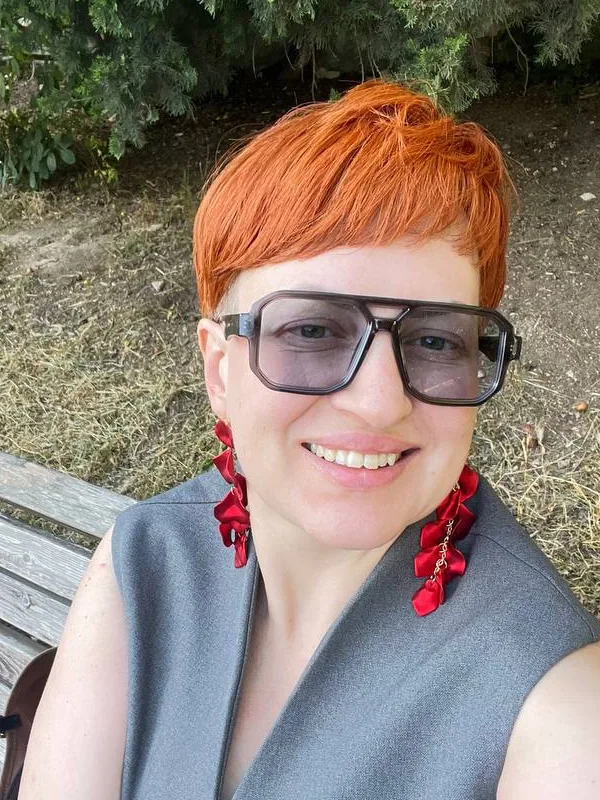
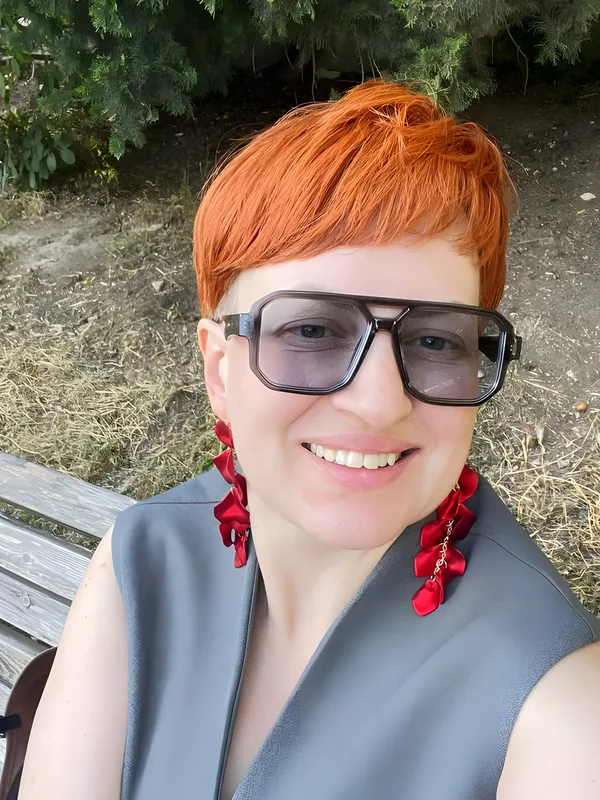
perf: апскейл фотографий Real-ESRGAN x4, версии 2400 для ретины
Мастера получены на кассовом ПК (Vulkan на Intel UHD 610), кадрирование
сохранено пиксель-в-пиксель, добавлен размер 2400 в srcset, sizes уточнены
по измеренной ширине блоков.

Claude-Session: https://claude.ai/code/session_01CwtXJwgq82ZA6p353MHXb9

diff --git a/zapis-marketing-doveriya/index.html b/zapis-marketing-doveriya/index.html
@@ -31,4 +31,4 @@
 <meta content="Мощный практический онлайн-эфир «Маркетинг Доверия» доступен в записи. Доступ после оплаты. Валентина Сухарева." name="twitter:description"/>
 <meta content="https://xn----8sbjhcmhkkgzbpg6a9j.xn--p1ai/assets/img/og-zapis.jpg" name="twitter:image"/>
 <meta content="Маркетинг Доверия. Вебинар в записи. Валентина Сухарева." name="twitter:image:alt"/>
-<link href="/zapis-marketing-doveriya/style.css" rel="stylesheet"/><script type="application/ld+json">{"@context": "https://schema.org", "@type": "CreativeWork", "name": "Маркетинг Доверия: как привлекать клиентов в новых реалиях", "url": "https://xn----8sbjhcmhkkgzbpg6a9j.xn--p1ai/zapis-marketing-doveriya/", "image": "https://xn----8sbjhcmhkkgzbpg6a9j.xn--p1ai/assets/img/og-zapis.jpg", "inLanguage": "ru-RU", "isAccessibleForFree": false, "author": {"@type": "Person", "name": "Валентина Сухарева", "url": "https://xn----8sbjhcmhkkgzbpg6a9j.xn--p1ai/"}}</script></head><body class="webinar recording"><a class="skip" href="#main">Перейти к содержимому</a><div class="page-band page-band--cream"><header class="topbar"><nav class="header-menu" aria-label="Разделы сайта"><a href="/#about">Обо мне</a><a href="/#formats">Форматы</a><a href="/#calendar">Календарь</a><a href="/#thoughts">Блог</a></nav><nav class="header-social" aria-label="Социальные сети"><a href="https://t.me/valentina_pro_marketing" target="_blank" rel="noopener noreferrer" aria-label="Telegram"><img src="/assets/brand/telegram-icon.svg" width="22" height="22" alt="" loading="lazy"></a><a href="https://max.ru/id421204839449_biz" target="_blank" rel="noopener noreferrer" aria-label="MAX"><img src="/assets/brand/max-icon.svg" width="22" height="22" alt="" loading="lazy"></a><a href="https://www.instagram.com/valentina_promarketing" target="_blank" rel="noopener noreferrer" aria-label="Instagram"><img src="/assets/brand/instagram-icon.svg" width="22" height="22" alt="" loading="lazy"></a></nav></header></div><main id="main"><div class="page-band page-band--orange"><section class="record-hero"><a class="record-back" href="/">← На главную</a><p class="record-label">ВЕБИНАР В ЗАПИСИ</p><div class="record-hero-grid"><div class="record-hero-copy"><h1><span>Маркетинг Доверия:</span> <small>как привлекать клиентов в новых реалиях</small></h1><div class="record-access"><p>мощный практический онлайн-эфир, доступен в записи.</p><p class="record-access-label">Доступ после оплаты</p><div class="record-payment"><a class="pay" href="https://payform.ru/e0cjdjM" rel="noopener noreferrer" target="_blank">Купить доступ <span aria-hidden="true" class="arrow">→</span></a><a class="record-terms" href="/legal/oferta/">Условия публичной оферты</a></div></div></div><figure class="record-poster"><a aria-label="Открыть афишу вебинара крупно" href="/assets/img/poster-doveriya-1200.webp" rel="noopener noreferrer" target="_blank"><img alt="Афиша прошедшего вебинара «Маркетинг доверия» с двумя ведущими" fetchpriority="high" height="1280" sizes="(max-width:760px) calc(100vw - 40px), 360px" src="/assets/img/poster-doveriya-600.webp" srcset="/assets/img/poster-doveriya-600.webp 600w, /assets/img/poster-doveriya-1200.webp 1200w" width="720"/></a><figcaption>Афиша прошедшего эфира <a href="/assets/img/poster-doveriya-1200.webp" rel="noopener noreferrer" target="_blank">Открыть крупно →</a></figcaption></figure></div></section></div><div class="page-band page-band--cream"><section class="record-intro"><p>Разобрали не сухую теорию из учебников, а рабочие связки, которые приносят продажи прямо здесь и сейчас — на базе ваших имеющихся активов и без слива бюджета на трафик.</p></section></div><div class="page-band page-band--cream"><section class="record-program"><h2>Что внутри</h2><ol><li><span aria-hidden="true" class="record-number">01</span><p>Две главные причины, почему у вас не покупают, и как это исправить.</p></li><li><span aria-hidden="true" class="record-number">02</span><p>Скрытая золотая жила: где прямо сейчас спрятаны ваши деньги (спойлер: в вашей CRM, телефоне и забытых чатах).</p></li><li><span aria-hidden="true" class="record-number">03</span><p>9 факторов доверия: как стать для клиента «своим» и продавать на высокие чеки без уговоров.</p></li><li><span aria-hidden="true" class="record-number">04</span><p>ИИ в помощь: специальный блок от эксперта по нейросетям — как делегировать контент искусственному интеллекту, чтобы он был живым, продающим и не «пластмассовым».</p></li></ol></section></div><div class="page-band page-band--blue"><section class="record-bonus"><p>Бонусы в комплекте с записью</p></section></div><div class="page-band page-band--cream"><section class="record-author"><figure><img alt="Валентина Сухарева в сером жилете с красными серьгами" height="800" loading="lazy" sizes="(max-width:760px) calc(100vw - 40px), 450px" src="/assets/img/portrait-selfie-red-600.webp" srcset="/assets/img/portrait-selfie-red-600.webp 600w, /assets/img/portrait-selfie-red-1200.webp 1200w" width="600"/><figcaption>Рыжий маркетолог</figcaption></figure><div><p class="record-label">АВТОР</p><h2>Валентина Сухарева</h2><p>Валентина Сухарева, «Рыжий маркетолог». Наставник по продвижению и личному бренду, организатор онлайн-нетворкингов. Опыт в маркетинге более 15 лет.</p></div></section></div><div class="page-band page-band--orange"><section class="record-final"><div><p class="record-label">ВЕБИНАР В ЗАПИСИ</p><h2>Маркетинг Доверия</h2><p>Доступ после оплаты</p></div><div class="record-payment"><a class="pay" href="https://payform.ru/e0cjdjM" rel="noopener noreferrer" target="_blank">Купить доступ <span aria-hidden="true" class="arrow">→</span></a><a class="record-terms" href="/legal/oferta/">Условия публичной оферты</a></div></section></div></main><div class="page-band page-band--black"><footer><div class="footer-top"><div class="footer-identity"><a class="brand" href="/">Рыжий маркетолог</a><p class="footer-tagline">МАРКЕТИНГ. ЛЮДИ. РАЗВИТИЕ.</p><nav aria-label="Социальные сети" class="footer-social"><a href="https://t.me/valentina_pro_marketing" rel="noopener noreferrer" target="_blank">Telegram</a><a href="https://max.ru/id421204839449_biz" rel="noopener noreferrer" target="_blank">MAX</a><a href="https://www.instagram.com/valentina_promarketing" rel="noopener noreferrer" target="_blank">Instagram</a></nav></div><nav aria-label="Разделы сайта Рыжий маркетолог в подвале" class="footer-menu"><a href="/#about">Обо мне</a><a href="/#formats">Форматы</a><a href="/#calendar">Календарь</a><a href="/#thoughts">Блог</a></nav></div><div class="footer-legal"><p>ИП Сухарева Валентина Александровна · ИНН 421204839449 · ОГРНИП 325420500045757</p><nav aria-label="Юридические документы"><a href="/legal/oferta/">Оферта</a><a href="/legal/privacy/">Политика</a><a href="/rekvizity/">Реквизиты</a></nav></div><p class="footer-credit">Концепт и реализация — <a href="https://xn--80abbgkqqiqk5bzb.xn--p1ai" rel="noopener noreferrer" target="_blank">БигТехно<span class="credit-club">Клаб</span>.рф</a></p></footer></div></body></html>
+<link href="/zapis-marketing-doveriya/style.css" rel="stylesheet"/><script type="application/ld+json">{"@context": "https://schema.org", "@type": "CreativeWork", "name": "Маркетинг Доверия: как привлекать клиентов в новых реалиях", "url": "https://xn----8sbjhcmhkkgzbpg6a9j.xn--p1ai/zapis-marketing-doveriya/", "image": "https://xn----8sbjhcmhkkgzbpg6a9j.xn--p1ai/assets/img/og-zapis.jpg", "inLanguage": "ru-RU", "isAccessibleForFree": false, "author": {"@type": "Person", "name": "Валентина Сухарева", "url": "https://xn----8sbjhcmhkkgzbpg6a9j.xn--p1ai/"}}</script></head><body class="webinar recording"><a class="skip" href="#main">Перейти к содержимому</a><div class="page-band page-band--cream"><header class="topbar"><nav class="header-menu" aria-label="Разделы сайта"><a href="/#about">Обо мне</a><a href="/#formats">Форматы</a><a href="/#calendar">Календарь</a><a href="/#thoughts">Блог</a></nav><nav class="header-social" aria-label="Социальные сети"><a href="https://t.me/valentina_pro_marketing" target="_blank" rel="noopener noreferrer" aria-label="Telegram"><img src="/assets/brand/telegram-icon.svg" width="22" height="22" alt="" loading="lazy"></a><a href="https://max.ru/id421204839449_biz" target="_blank" rel="noopener noreferrer" aria-label="MAX"><img src="/assets/brand/max-icon.svg" width="22" height="22" alt="" loading="lazy"></a><a href="https://www.instagram.com/valentina_promarketing" target="_blank" rel="noopener noreferrer" aria-label="Instagram"><img src="/assets/brand/instagram-icon.svg" width="22" height="22" alt="" loading="lazy"></a></nav></header></div><main id="main"><div class="page-band page-band--orange"><section class="record-hero"><a class="record-back" href="/">← На главную</a><p class="record-label">ВЕБИНАР В ЗАПИСИ</p><div class="record-hero-grid"><div class="record-hero-copy"><h1><span>Маркетинг Доверия:</span> <small>как привлекать клиентов в новых реалиях</small></h1><div class="record-access"><p>мощный практический онлайн-эфир, доступен в записи.</p><p class="record-access-label">Доступ после оплаты</p><div class="record-payment"><a class="pay" href="https://payform.ru/e0cjdjM" rel="noopener noreferrer" target="_blank">Купить доступ <span aria-hidden="true" class="arrow">→</span></a><a class="record-terms" href="/legal/oferta/">Условия публичной оферты</a></div></div></div><figure class="record-poster"><a aria-label="Открыть афишу вебинара крупно" href="/assets/img/poster-doveriya-1200.webp" rel="noopener noreferrer" target="_blank"><img alt="Афиша прошедшего вебинара «Маркетинг доверия» с двумя ведущими" fetchpriority="high" height="1280" sizes="(max-width:760px) calc(100vw - 40px), 360px" src="/assets/img/poster-doveriya-600.webp" srcset="/assets/img/poster-doveriya-600.webp 600w, /assets/img/poster-doveriya-1200.webp 1200w" width="720"/></a><figcaption>Афиша прошедшего эфира <a href="/assets/img/poster-doveriya-1200.webp" rel="noopener noreferrer" target="_blank">Открыть крупно →</a></figcaption></figure></div></section></div><div class="page-band page-band--cream"><section class="record-intro"><p>Разобрали не сухую теорию из учебников, а рабочие связки, которые приносят продажи прямо здесь и сейчас — на базе ваших имеющихся активов и без слива бюджета на трафик.</p></section></div><div class="page-band page-band--cream"><section class="record-program"><h2>Что внутри</h2><ol><li><span aria-hidden="true" class="record-number">01</span><p>Две главные причины, почему у вас не покупают, и как это исправить.</p></li><li><span aria-hidden="true" class="record-number">02</span><p>Скрытая золотая жила: где прямо сейчас спрятаны ваши деньги (спойлер: в вашей CRM, телефоне и забытых чатах).</p></li><li><span aria-hidden="true" class="record-number">03</span><p>9 факторов доверия: как стать для клиента «своим» и продавать на высокие чеки без уговоров.</p></li><li><span aria-hidden="true" class="record-number">04</span><p>ИИ в помощь: специальный блок от эксперта по нейросетям — как делегировать контент искусственному интеллекту, чтобы он был живым, продающим и не «пластмассовым».</p></li></ol></section></div><div class="page-band page-band--blue"><section class="record-bonus"><p>Бонусы в комплекте с записью</p></section></div><div class="page-band page-band--cream"><section class="record-author"><figure><img alt="Валентина Сухарева в сером жилете с красными серьгами" height="800" loading="lazy" sizes="(max-width:760px) calc(100vw - 40px), 450px" src="/assets/img/portrait-selfie-red-600.webp" srcset="/assets/img/portrait-selfie-red-600.webp 600w, /assets/img/portrait-selfie-red-1200.webp 1200w, /assets/img/portrait-selfie-red-2400.webp 2400w" width="600"/><figcaption>Рыжий маркетолог</figcaption></figure><div><p class="record-label">АВТОР</p><h2>Валентина Сухарева</h2><p>Валентина Сухарева, «Рыжий маркетолог». Наставник по продвижению и личному бренду, организатор онлайн-нетворкингов. Опыт в маркетинге более 15 лет.</p></div></section></div><div class="page-band page-band--orange"><section class="record-final"><div><p class="record-label">ВЕБИНАР В ЗАПИСИ</p><h2>Маркетинг Доверия</h2><p>Доступ после оплаты</p></div><div class="record-payment"><a class="pay" href="https://payform.ru/e0cjdjM" rel="noopener noreferrer" target="_blank">Купить доступ <span aria-hidden="true" class="arrow">→</span></a><a class="record-terms" href="/legal/oferta/">Условия публичной оферты</a></div></section></div></main><div class="page-band page-band--black"><footer><div class="footer-top"><div class="footer-identity"><a class="brand" href="/">Рыжий маркетолог</a><p class="footer-tagline">МАРКЕТИНГ. ЛЮДИ. РАЗВИТИЕ.</p><nav aria-label="Социальные сети" class="footer-social"><a href="https://t.me/valentina_pro_marketing" rel="noopener noreferrer" target="_blank">Telegram</a><a href="https://max.ru/id421204839449_biz" rel="noopener noreferrer" target="_blank">MAX</a><a href="https://www.instagram.com/valentina_promarketing" rel="noopener noreferrer" target="_blank">Instagram</a></nav></div><nav aria-label="Разделы сайта Рыжий маркетолог в подвале" class="footer-menu"><a href="/#about">Обо мне</a><a href="/#formats">Форматы</a><a href="/#calendar">Календарь</a><a href="/#thoughts">Блог</a></nav></div><div class="footer-legal"><p>ИП Сухарева Валентина Александровна · ИНН 421204839449 · ОГРНИП 325420500045757</p><nav aria-label="Юридические документы"><a href="/legal/oferta/">Оферта</a><a href="/legal/privacy/">Политика</a><a href="/rekvizity/">Реквизиты</a></nav></div><p class="footer-credit">Концепт и реализация — <a href="https://xn--80abbgkqqiqk5bzb.xn--p1ai" rel="noopener noreferrer" target="_blank">БигТехно<span class="credit-club">Клаб</span>.рф</a></p></footer></div></body></html>

diff --git a/index.html b/index.html
@@ -67,7 +67,7 @@
 <div class="page-band page-band--cream"><header class="topbar"><nav class="header-menu" aria-label="Разделы сайта"><a href="#about">Обо мне</a><a href="#formats">Форматы</a><a href="#calendar">Календарь</a><a href="#thoughts">Блог</a></nav><nav class="header-social" aria-label="Социальные сети"><a href="https://t.me/valentina_pro_marketing" target="_blank" rel="noopener noreferrer" aria-label="Telegram"><img src="/assets/brand/telegram-icon.svg" width="22" height="22" alt="" loading="lazy"></a><a href="https://max.ru/id421204839449_biz" target="_blank" rel="noopener noreferrer" aria-label="MAX"><img src="/assets/brand/max-icon.svg" width="22" height="22" alt="" loading="lazy"></a><a href="https://www.instagram.com/valentina_promarketing" target="_blank" rel="noopener noreferrer" aria-label="Instagram"><img src="/assets/brand/instagram-icon.svg" width="22" height="22" alt="" loading="lazy"></a></nav></header></div>
 <main id="main">
 <div class="page-band page-band--orange"><section class="hero" aria-labelledby="h1">
-<div class="hero-media"><img data-motion="photo" src="/assets/img/portrait-terrace-1200.webp" width="1200" height="1600" fetchpriority="high" alt="Валентина Сухарева на террасе"></div>
+<div class="hero-media"><img data-motion="photo" src="/assets/img/portrait-terrace-1200.webp" srcset="/assets/img/portrait-terrace-600.webp 600w, /assets/img/portrait-terrace-1200.webp 1200w, /assets/img/portrait-terrace-2400.webp 2400w" sizes="(max-width:760px) 100vw, (max-width:1400px) 58vw, 765px" width="1200" height="1600" fetchpriority="high" alt="Валентина Сухарева на террасе"></div>
 <div class="hero-note"><svg class="hero-hand" data-motion="hand" role="img" xmlns="http://www.w3.org/2000/svg" aria-label="Больше, чем маркетинг" viewBox="0 0 1073 1281.94" preserveAspectRatio="xMidYMid meet"><defs><clipPath id="hand-motion"><rect class="hand-window" width="1073" height="1281.94"/></clipPath></defs><g clip-path="url(#hand-motion)"><path fill="currentColor" d="M844.58 1.34c-26.2 9.4-62.3 69.5-70.2 116.8-.6 3.9-12.2 19.4-20.4 27.3-4.1 3.9-4.1 3.9-4.1 1.3 0-8.7 6.9-34.5 18.5-68.8 8.4-24.8 8.8-26.3 8.6-31.3-.3-6.8-9-9.9-15.8-5.7-5.2 3.1-11.2 16.9-22.3 50.4-4.8 14.8-7.9 22.2-14.2 33.9-14.1 26.3-23.4 41.6-30.9 50.7-2 2.5-2 2.5-1.4-3.5 1.2-11.1 11.6-48.8 21.5-77.9 1.6-5 3-10.3 3-11.8 0-7.3-6.8-12.4-13.1-9.8-6.6 2.8-8.9 7.3-23 45.5-5.9 16.1-22.2 49-33.6 68.1-7.4 12.3-18.2 27.9-18.9 27.2-1.3-1.4 13.6-58.5 18.7-71.5.6-1.5 3.3-9.2 6-17.1 4.5-12.9 4.9-14.6 3.9-18.2-2-7.6-9.4-10.2-16.1-5.7-5.6 3.8-8.4 9.7-19.4 41.3-5.8 16.5-7.2 19.4-15.6 32.5-5 7.9-9.5 14.8-10 15.3-.4.5-2-.5-3.5-2.3-3.8-4.5-7.5-6.1-14.1-6.1-6.5 0-13.9 2.9-20.3 8-3.7 3-3.7 3 3.6-19.8 8.2-25.1 8.8-29.5 5-33.9-1.9-2.2-3.2-2.8-6.3-2.7-5.9.2-8.9 2.8-12.8 10.8-5.8 12.1-18.6 49.1-29 84.1-2.9 9.8-7.5 18.7-20.3 39.9-6.6 10.8-17.5 27.3-20.9 31.5-1.1 1.5-1.3-1.6-.3-7 3.3-18.6 8.5-38.4 21.1-79.4 4.5-14.9 8.8-29.2 9.5-31.9 4.6-16.8-12.1-21.5-24.3-6.9-6 7.1-19.9 27.9-29.3 43.8-18.4 30.9-18.2 30.7-22.8 33.1-2.4 1.3-8.2 5.8-13 10.1-13.9 12.6-26.7 22.3-29.2 22.3-.4 0-.7-4.8-.7-10.8-.1-14.1-2.5-22-8.8-29-14.3-15.9-36.6-10.8-57.7 13.3-20.4 23.3-38.8 56.8-48.3 88.1-9.4 31-8.9 54.3 1.2 64.8 4.8 4.9 8.3 6.6 14.7 7.3 7.4.8 14.8-1.7 23.2-7.5 8.2-5.9 23.6-21.6 31.8-32.6 13.6-18.1 27.5-43.3 35-63.1 5-13.2 4.6-12.5 8.9-14 7.2-2.5 15.1-8.1 24.5-17.3 5.9-5.9 8.7-8.1 7.4-6-9.9 16.5-34.9 64.6-38.3 73.9-4.3 11.9-2.5 16.9 6.3 16.9 7.5 0 11-5.2 34.8-51 7.9-15.1 18.8-35.8 24.3-46s12-22.2 14.4-26.8c2.5-4.5 4.6-8.2 4.8-8.2s-.5 3-1.6 6.7c-2.8 9.7-7.5 29.3-9.5 39.8-2.2 11.8-2.3 28.7-.1 33.8 3.1 7.3 9.4 10.7 17.2 9.3 7.4-1.4 18.9-15.2 32-38.6 6-10.5 6-10.5 6.6-5.5 2.1 16.5 14.8 23.6 29.6 16.4 9.1-4.4 27-23.7 37.7-40.8 8.3-13.1 16.1-31.9 18.1-43.5.4-2.2 1.9-5.8 3.4-8 1.6-2.3 3.6-5.6 4.5-7.4 1-1.9 1.9-3.2 2.1-3 .1.1-.6 4.8-1.7 10.3-1.1 5.8-2 14.6-2.1 21-.1 9.3.2 11.7 2 15.7 3.8 8.3 12.7 11.2 21.1 6.9 8.1-4.1 22.4-23.2 35.2-46.9 5.5-10.2 5.5-10.2 7-3.9 2 7.6 3.2 10 6.8 12.5 12.4 8.9 26-2.5 46.3-39 6.3-11.1 6.3-11.1 7.6-7.2 2.8 8.2 10.1 12.4 17.8 10.3 4.7-1.3 12.6-9 21.3-20.7 3.5-4.7 6.4-7.8 6.6-7 .3.7 1 3 1.6 5 1.7 5.5 6.4 11.4 11.7 14.5 4.2 2.4 5.8 2.8 12.8 2.8 9.4 0 15.6-2.5 26.5-10.5 17.4-12.9 46.9-50.6 48.6-62.2 1.3-9-4.4-7.5-15 4-16.8 18.1-37.3 38-43.6 42-14.5 9.4-19.6 6.4-19.4-11.3.1-12.4 1.5-16.8 6.2-19.6 31.9-19.2 65.1-66.5 65.4-93 0-7-1.4-10.9-5.4-14.6-4.7-4.4-11.8-5.4-19.1-2.9m2.7 25.8c-2.6 9.9-11.6 26.1-21.1 37.7-6.4 7.9-15.3 17.4-15.8 16.9-.6-.6 7.3-17.9 12.3-27 7.3-13.1 22.4-32.8 25.3-32.8.4 0 .1 2.4-.7 5.2m-272.8 181.4c-1.9 15.9-19.4 48.7-34.8 64.9-5.7 6-5.7 6-5.8 1.4-.1-13.1 5.6-35 11.6-44.6 7.8-12.6 25.5-29.6 28.7-27.6.5.3.7 2.8.3 5.9m-214.3 48.8c.3.8-.1 5.2-.9 9.8-1.7 9.2-1.2 15.1 1.7 21.7 1.9 4.4 1.9 4.4-1.2 13.5-6.2 18.5-21.8 47.7-35.1 65.8-11.1 15.3-27.6 30.4-30.1 27.9-1.9-1.9-2-14.3-.3-23.3 8.3-42.2 39.5-103 58.7-114.7 4-2.4 6.5-2.7 7.2-.7m-19.3-202c-28.4 8.7-85 38.3-150.5 79-8.7 5.4-9 5.5-10.5 3.6-.8-1.1-2.9-2.4-4.7-3.1-7.3-2.5-14.5 3.2-18.2 14.4-1.2 3.5-2.7 7.1-3.4 7.9-.7.9-12.9 9.4-27.2 19-43.8 29.4-68.5 47.9-79.8 59.6-5.3 5.6-5.7 6.4-5.7 10.7 0 9 8.3 13.2 17 8.7 2-.9 12.5-8.1 23.5-15.8 24.3-17.1 57.5-39.6 57.5-39 0 .3-4.9 14.6-11 31.8-6 17.2-16.5 47.3-23.2 66.9-12.3 35.6-12.3 35.6-23.4 46.1-13.3 12.4-27.2 27.3-31.4 33.6-5.3 8-3.5 15.8 4.2 17.7 3.5.9 10.1-2.1 16.1-7.4 2.6-2.4 4.7-3.9 4.7-3.4s-4.1 13-9 27.8c-16.5 49.1-30.1 96.2-33.5 115.9-.8 5-2.1 9.4-2.8 9.8-2.6 1.8-20.4 11.6-24.1 13.4-4.8 2.3-6.1 4.2-5.2 7.8 1.8 7.4 14.4 8.6 29.1 2.7 34.8-14 105-66.4 157.2-117.5 35.2-34.3 57.8-63.7 72.4-94.1 8.2-16.9 11-27.1 11.6-42.2.5-11.2.4-12.9-2-20.5-4.2-13.2-12.2-22-24.4-27-5.1-2-7.4-2.3-18.3-2.2-10.5.1-13.9.5-21.2 2.7-18.1 5.5-41.5 17.5-63 32.3-5.8 4.1-10.9 7.4-11.1 7.4-.3 0 .1-1.7.9-3.8.7-2 3.9-10.9 7-19.7 3-8.8 9.2-26.1 13.6-38.5s11.1-31.5 14.9-42.5c6.6-19.2 7-20.1 10.6-22.4 40.1-25.9 121.6-72.7 167.7-96.3 13.7-7 18.3-9.9 19.7-12.2 2.7-4.3 2.4-7.3-1-10.7-2.7-2.6-3.6-2.9-9.3-2.8-3.6 0-9.5 1-13.8 2.3m-104 226.6c3.9 2.1 5.5 7.8 5.4 20 0 10.2-.4 12.6-3.3 21.2-8 24.4-27.4 54.9-53.7 84.8-20.3 23-56 56.6-86.1 80.8-14.3 11.5-39.5 30.3-40 29.8-1-1 11.2-40.1 30.2-97.1 28.5-85.1 23.9-74.6 37.5-85.9 46.2-38.5 94.4-62 110-53.6m664.3-183c-4.8 2.9-5.8 5-10.8 23.5-2.6 9.3-7.9 26-11.7 37-9.1 25.6-9.2 26-7.7 28.7 1.6 3 2.8 3.8 6.1 3.8 4 0 8-4 15.9-15.8 13.1-19.6 25.2-47.7 26.6-61.8.4-4.7.1-6.9-1.2-9.8-3.4-7-10.9-9.5-17.2-5.6m154.2 330.3c-7.8 3-27.6 13.3-44.5 23.4-7.4 4.4-16.3 9.5-19.7 11.2s-6.7 4-7.3 5c-1.7 3.2-1.2 8.6 1.1 11.6 2.2 2.7 2.2 2.7-1.6 14.8-3 9.7-6.9 18.1-19 41.2-16.5 31.3-23.7 44.2-32.3 57.5-3 4.7-5.6 8.7-5.8 8.9-1.4 1.6-1-2.3 1.6-15 3.6-18 9.4-38.1 21-72.7 9.8-29.4 10.5-33.4 6.6-37.9-2-2.3-3.2-2.8-6.9-2.8-8.9 0-13 6.8-24.6 40.9-3.8 11.1-7.9 23.8-9.1 28.1-1.2 4.4-2.7 8.6-3.4 9.4-1.6 2.2-30.8 25.2-31.2 24.8-.3-.2 3.4-12.1 8.1-26.4 5.1-15.8 8.5-27.7 8.5-30.2 0-5.8-3.3-9.1-9.1-9.1-3.7 0-4.8.6-8.3 4.3-5 5.2-8.5 13.8-19.7 48.2-4.4 13.7-8.8 26.9-9.6 29.2-3.6 10.3-34 60.5-41.7 68.8-3.7 4-3.7 4-3.2-4 .9-13.5 10.2-46.2 23.7-83.3 5.7-15.4 6.1-19.7 2.3-24.1-2-2.4-3.4-3.1-6.2-3.1-4.6 0-9.3 2.8-12 7.1-2.3 3.8-8.4 18.9-14.2 35-8.2 22.7-33.4 68-51.6 92.6-3.1 4.1-5.8 7.2-6.1 7-.7-.8 3.2-19.1 6.7-31.2 4.6-15.8 11.3-35.7 17.9-52.8 3.4-8.7 6.1-17 6.1-18.3 0-7.4-7.2-12-14.2-9.1-5 2.1-8.2 6.8-14 20.4-5.7 13.5-18.5 51.1-22.2 65.5-5.5 21.1-7.2 38.6-4.6 47.7 1.5 5.6 6.5 10.7 11.2 11.6 6.6 1.2 11.6-1.1 19.3-8.9 6.9-7 20.5-26.5 29.5-42.2l4.5-7.9.5 7.5c.7 9.3 3.8 15.3 9.2 18.1 6.6 3.4 12.4 2 19.8-4.7 4.4-4 16.1-20.9 23-33.4 3-5.4 4-6.7 3.6-4.4-2.1 12.8-2.7 20.4-1.7 24.1 1.3 4.9 2.8 6.2 7.5 7 3.3.5 4 .2 7.4-3.4 3.5-3.6 4.3-5.6 8.9-22.4 2.9-10.1 6.4-23.3 8-29.3 2.8-10.8 2.8-10.8 12.3-19 16.9-14.6 23.1-19.8 23.5-19.4.2.2-.3 4.8-1.2 10.3-1.9 13-1.4 26.6 1.2 32 2.4 4.9 7.6 8.5 12.2 8.5 11 0 19.9-11.3 39.7-50.2 5.5-10.9 10.1-19.7 10.2-19.5.1.1-.7 4.2-1.8 9.2-1.4 6.1-2.1 13-2.2 21.3-.1 12.4-.1 12.4 2.7 14.8q5.7 4.95 12-.6c3.9-3.4 3.8-3.2 10.2-31 6.2-27.3 18.1-71.2 28-103.6.2-.6 12.1-8.2 26.5-16.9 14.3-8.7 27.4-17 29.1-18.6 3.9-3.6 4-8.9.3-11.8-3.4-2.7-7.3-2.6-14.9.2m-582-.1c-3.9 2.1-6.8 5.4-13.5 15.3-11.7 17.5-22 35.5-52.5 91.5-11.6 21.3-13.8 25.1-12.9 21.4.2-1 2.4-11.8 4.8-23.9 2.5-12.1 6.1-29.1 8-37.8 2-8.8 3.6-17.3 3.6-19 0-4.7-3.2-9.3-7.5-10.7-3.2-1-4.1-.9-8.3 1.2-2.9 1.4-6.1 4.2-8.4 7.3-6.6 8.8-18.6 29.7-32.1 56.2-13.7 26.8-25.2 45.1-43.7 69.8-31 41.4-63.4 72.4-75.8 72.5-5.1 0-6.6-12.9-3.3-27.7 1.1-4.7 1.7-5.4 7.6-9.2 23.5-15.2 46-40.5 58.9-66.1 9.3-18.8 10.8-30 4.9-37-9.8-11.7-27.8-6-45.5 14.2-26.1 29.9-46.5 72.8-51 107.3-1.1 8.9-1.1 8.9-11.2 20.9-18.9 22.5-38.6 43.3-38.6 40.9 0-.6 1.6-6.4 3.5-13 8.1-27.9 23-63.1 47.4-112.1 10.1-20.5 11-24.3 6.7-28.7-3.6-3.6-6.8-4-12-1.5-5.9 2.8-8.6 7.2-23.2 36.5-11 22.3-11.7 23.4-22 35.3-5.9 6.7-13.5 14.9-17 18.2-7.3 6.8-17.2 14.5-17.9 13.8-.6-.6 5.8-18.2 9.9-27.2 2-4.3 7.5-14.5 12.1-22.6 8.8-15.2 10-19.3 7.4-24.2-2.9-5.3-11.7-5.4-18.1 0-6.2 5.2-20.4 29.2-28.2 47.7-6.1 14.3-7.9 21.6-8 31.5-.2 14.6 4.6 20.5 16.4 20.5 8.3 0 13-2.3 24.3-12.1l8.5-7.3-5.3 16.2c-11.2 33.9-11.8 50.9-2.1 56.8 6.7 4.1 13.6 1.7 24.7-8.9 11.3-10.6 36.1-43.1 42.9-56.1 1.2-2.3 1.3-2.3 2.2-.5 5.1 9.6 11.4 14.3 20.5 15.1 7.5.7 16.3-2.2 25.8-8.5 13.3-8.8 39.9-38.1 54.5-59.9 3-4.5 5.5-8.1 5.6-8 .2.1-1.8 6.3-4.3 13.6-5.1 15.2-6 22.6-3 25.9 4.3 4.8 11.6 3.1 16.6-3.8 1.7-2.3 5.6-10.8 8.7-18.8 16.5-42.3 21.4-54.4 29.7-73.2 5-11.3 9.5-21 10-21.5.7-.7.8-.4.3.8-1.1 3.2-4.4 24.7-5.7 36.5-2.5 24.4 1.4 35.4 12.1 33.9 5.5-.7 9.3-3.8 14.9-12 6.3-9.4 38-66.5 48.5-87.6 3.8-7.4 5.7-8.9 3.7-2.9-.6 1.8-2.6 10-4.5 18.3-8.4 36.6-8.8 61.3-1 68.6 2 1.8 3.6 2.4 7.4 2.4 8.8 0 11.7-4.8 13.1-21.3 1.8-22.5 7.1-47.2 22.3-103.7 4.2-15.3 7.6-29.2 7.6-30.7 0-4.2-2.4-9.2-5.5-11.6s-9.6-2.9-13-1m-188.5 123c-1.3 4.5-8.4 18-13.2 25.1-7.1 10.5-26.8 32.8-26.8 30.4 0-.4 2.7-5.9 5.9-12.2 6.4-12.4 15-26.1 21.4-34 4.1-5.2 11.7-12.5 12.9-12.5.4 0 .3 1.5-.2 3.2m518.9-48.3c-16.2 6.1-56.1 26.4-89.9 45.9-32.2 18.6-67.9 42.9-81.2 55.4-4 3.7-4.8 5-4.8 8 0 3.7 1.9 6.1 5.8 7.3 3.1.9 9.4-2.2 28.7-13.9 64.1-39.2 105.4-63.4 139.5-82.1 10.7-5.8 20.3-11.5 21.3-12.7 2.2-2.6 2.2-7.1-.1-9.1-2.8-2.6-10.5-2-19.3 1.2m-100.7 91.2c-5.6 2.8-8.8 9.5-18.7 39.4-7.1 21.5-8.4 24.6-20.4 47.1-15.3 28.6-22.5 40.4-34.7 56.7-16.6 22.2-35.2 39.5-44.1 41.3-2.6.5-3.4.2-4.8-2-2.3-3.5-2.9-13.5-1.3-22.5 1.3-7.5 1.3-7.5 6.8-10.7 23.3-13.6 53.7-53.7 60.1-79.3 3.4-13.6 1.8-20.5-6.2-25.9-2.9-2.1-4.3-2.3-9.4-1.9-7.1.5-12.3 2.9-19.4 9-21.5 18.4-43.7 57.7-53.4 94.7-2.6 9.9-3 13.5-3.2 26.1-.2 14.6-.2 14.6-3.5 19.5-8.7 12.9-14.9 18.4-20.5 18.4-1.8 0-4.9-1.1-7.1-2.6-4-2.7-25.4-23.3-25.4-24.6 0-.3 5.7-8.4 12.6-18 6.9-9.5 14.4-19.9 16.7-23.2 2.3-3.2 12.3-16.6 22.2-29.8 21.2-28.3 21.5-28.7 21.5-31.5 0-10-10.8-12.2-19.7-4-7.8 7.1-28.3 34.3-48.7 64.4-3.8 5.7-7.1 10.1-7.3 9.9s2-10 4.8-21.8c5.6-23 5.7-25.1 1.4-29.4-3-3-8.5-3.2-13.1-.3-5.9 3.6-10 15.2-21 59.7-3.1 12.5-6.4 23.9-7.3 25.3s-3.8 5-6.4 8c-4.9 5.3-4.9 5.3-4.1.4 3.7-23.3-4.6-38.8-20.6-38.9-10.3-.1-22.3 8.1-35.1 24-2.9 3.5-5.4 6.3-5.5 6.1-.1-.1.6-3.8 1.7-8.2 2.2-9.2 1.9-13.2-1.7-17.4-3.4-4-7.2-4.7-12.7-2.3-7.1 3.1-7.6 4.3-22.2 50.2-5.5 17-27.4 64.1-41.3 88.5-6.8 11.9-17.2 27.5-18.3 27.5-3.4 0 5.8-39.1 20.5-87.3 2.1-6.9 3.6-13.9 3.6-16.9 0-4.4-.4-5.4-3.4-8.4-6.2-6.2-14.5-3.3-18 6.1-.2.6-1.6.3-3.4-.8-4.4-2.5-11.6-2.2-18 .8-7.6 3.5-15.3 10.4-24.5 22-33 41.2-56.7 102.4-49.7 128.4 3.2 12 15.4 16.8 26.9 10.6 10-5.5 26.4-26 38.3-48l4.3-8 .7 7.2c2.1 20.5 15 27.1 28.7 14.7 4.7-4.2 14.7-18.8 21.1-30.7 2.3-4.3 4.4-7.7 4.5-7.5.2.2-.7 3.7-2 7.8-7.5 23.8-32 107.9-39 133.4-8.7 32-10.2 42.4-7 48.6 3 5.8 10.3 6.9 15 2.2 3.4-3.4 3.4-3.4 10.5-28.2 7.2-25.4 19.4-66.3 31.2-105 5-16.2 9.7-32 10.6-35 .8-3 1.7-5.7 1.9-5.9.2-.3 1.3.5 2.6 1.6 6.3 5.8 14.5 6.2 24.4 1.3 17-8.4 44.1-44.8 59.4-79.9 2.9-6.6 6-11.7 9.9-16.2 3.1-3.7 7-8.5 8.6-10.8 1.6-2.2 3.2-4.1 3.5-4.1s-.3 3.9-1.3 8.7c-2.4 12.2-4.8 29.4-4.8 35.4 0 6.5 2.2 10.7 6.6 12.5 3.2 1.4 3.9 1.3 7.2-.3 2-1 4.7-3.3 5.9-5.1 2.2-3.4 2.9-5.8 9.4-36.7 2.2-10.5 4.2-19.8 4.5-20.8.4-1.4 2.3-.1 9.5 6.5 16.1 14.8 25.7 19.7 36.2 18.4 10.8-1.2 21.8-11.3 29.6-26.8 3.2-6.5 4.1-7.6 5.1-6.4.6.8 3.5 2.6 6.3 4.1 13.1 6.5 29.3 0 47.8-19.2 16.3-17 34.7-44.2 45.7-67.7 1.8-3.8 3.4-6.7 3.6-6.5s-.9 6.2-2.4 13.3c-5.1 23.2-6.5 43.6-3.4 50.1 2.2 4.7 6.5 6.3 10.9 4.2 4.6-2.2 6.8-7 8.9-19.7 5.2-30.5 15.7-70.6 36.6-139.3 3.2-10.7 3.1-14.3-.5-17.7-3.3-3.1-8.2-3.5-13.3-.9m-77.1 68.6c-1.6 6.3-8 18.8-14.6 28.8-5.8 8.6-20.8 26-21.3 24.5-.6-1.7 12.7-28 19.1-37.6 6.6-10 16.5-21.9 17.4-21 .3.3 0 2.7-.6 5.3m-200.6 110.2c.8 3.6-1.1 18.5-3.6 28.3-4.2 16.6-8.7 28-12.7 32.3-12.9 13.5-35.2 44.7-44.2 61.8-1.4 2.6-2.8 4.7-3.2 4.7-1.6 0-.8-21.5 1.1-30 5.1-22.8 18.6-49.7 37.8-75.5 8.2-10.9 21.1-24.5 23.3-24.5.4 0 1.1 1.3 1.5 2.9m-140.1 56.7c3.7 9.6-8.3 40.3-29.3 74.9-12.6 20.7-29.8 44.5-32.2 44.5-2.2 0 3.1-22.3 9-38 12.3-32.9 28.4-61.5 42.6-75.8 4-3.9 7.7-7.2 8.3-7.2.5 0 1.3.7 1.6 1.6m737.1-36.5c-30.1 8.4-96.7 33.5-158 59.4-77.6 32.8-111.7 48-185 82.4-84 39.5-225.8 113.4-301 156.9-48.6 28.1-111 66.8-155.5 96.5-61.4 41-103.2 74.5-104.7 83.9-.8 5.2 2.9 8.8 8.9 8.8 5.3 0 4.2.6 47.5-28.6 72.5-49 172.9-111.1 244.1-151.1 90.5-50.8 144-79.2 231.2-122.7 98.5-49.1 234.9-111 369.3-167.6 18.2-7.7 21.1-9.5 21.5-13.7.6-6.3-5.7-7.7-18.3-4.2m-828.1 48.3c-9.9 4.3-28.9 36-70.3 117.1-3.8 7.5-5 9.1-4.6 6.5.6-3.9 4.6-26.1 9.9-54.8 2-10.6 3.6-20.8 3.6-22.5 0-8.3-7.1-13.8-15-11.7-9.4 2.5-16.2 11.1-31.5 39.7-28.9 54-68.5 148.4-68.5 163.4 0 6.3 2.3 8.9 8 8.9 3.3 0 4.7-.7 8-4 5.3-5.3 7-9 22.6-47.7 13.8-34.3 38.4-91.2 39.5-91.3.4 0 .3 1.9-.2 4.2-4.9 26.8-6.4 57.9-3 65.5 2.3 5.1 5.9 7.6 10.9 7.6 10.8 0 14.6-5.7 47.7-71.1 8.1-16.1 14.9-29.1 15.1-28.9.2.1-.5 3-1.6 6.4-2.4 7.7-8.5 35.4-10.1 45.8-1.9 12.5-1.7 26.4.4 30.2 1.8 3.4 6.2 6.3 9.4 6.3 2.9 0 8.1-3.7 9.8-7 .9-1.7 2.3-8.6 3.1-15.3 2.9-23.5 8.7-47 28.8-116 5.8-20 6.2-22.3 3.9-26.7-2.9-5.7-9.2-7.5-15.9-4.6"/></g></svg></div>
 <div class="hero-copy"><p class="hero-name">Валентина Сухарева</p><h1 id="h1"><span data-motion="reveal">РЫЖИЙ</span><span data-motion="reveal" data-delay="70">МАРКЕТОЛОГ</span></h1><p class="hero-sub">Помогаю экспертам и бизнесам <br>развивать личный бренд <br>и продвигаться осознанно.</p><a class="btn hero-cta" href="#calendar">Выбрать мероприятие <svg class="i" viewBox="0 0 24 24" aria-hidden="true"><path d="M4 12h15m-6-6 6 6-6 6"/></svg></a>
 <a class="hero-announcement" href="/webinar/"><span class="strip-date">21<small>сентября</small></span><span class="strip-text"><span class="label">ПРАКТИЧЕСКИЙ ВЕБИНАР</span><span>Как развить и усовершенствовать <br>ваш личный бренд</span></span></a></div>

diff --git a/webinar/index.html b/webinar/index.html
@@ -86,7 +86,7 @@
 <div class="hero-top"><a class="back" href="/">← На главную</a><p class="kicker">ПРАКТИЧЕСКИЙ ВЕБИНАР</p></div>
 <div class="hero-layout">
 <div class="hero-intro"><h1 id="webinar-title"><span class="title-intro" data-motion="reveal">КАК РАЗВИТЬ И<br> УСОВЕРШЕНСТВОВАТЬ</span> <span class="title-main" data-motion="reveal" data-delay="70">ВАШ ЛИЧНЫЙ<br> БРЕНД</span></h1><p class="subtitle">от идеи до реализации —<br> без выгораний</p></div>
-<figure class="hero-portrait"><div class="portrait-window"><img data-motion="photo" src="/assets/img/portrait-mic-1200.webp" srcset="/assets/img/portrait-mic-600.webp 600w, /assets/img/portrait-mic-1200.webp 1200w" sizes="(max-width:760px) 90vw, 35vw" width="1200" height="1801" fetchpriority="high" alt="Валентина Сухарева, ведущая вебинара"></div><figcaption><span>Валентина Сухарева</span><span>«Рыжий маркетолог»</span></figcaption></figure>
+<figure class="hero-portrait"><div class="portrait-window"><img data-motion="photo" src="/assets/img/portrait-mic-1200.webp" srcset="/assets/img/portrait-mic-600.webp 600w, /assets/img/portrait-mic-1200.webp 1200w, /assets/img/portrait-mic-2400.webp 2400w" sizes="(max-width:760px) 90vw, (max-width:1500px) 32vw, 420px" width="1200" height="1801" fetchpriority="high" alt="Валентина Сухарева, ведущая вебинара"></div><figcaption><span>Валентина Сухарева</span><span>«Рыжий маркетолог»</span></figcaption></figure>
 <div class="hero-booking"><div class="when"><strong>21 сентября 2026</strong><span>15:00 мск / Онлайн</span></div><p class="hero-price" data-motion="number">888 ₽</p><div class="payment-action"><a class="pay" href="https://payform.ru/qvcwvzr/" target="_blank" rel="noopener noreferrer"><span>Занять место</span><span class="arrow" aria-hidden="true">→</span></a><p class="offer-note"><a href="/legal/oferta/">Условия публичной оферты</a></p></div><p class="payment-note">Оплата через Продамус</p></div>
 </div>
 </section></div>
@@ -94,7 +94,7 @@
 <div class="page-band page-band--cream"><section class="w-program" id="program" aria-labelledby="program-title"><div class="program-heading" data-motion="reveal"><h2 id="program-title">ЧТО<br> ВАС ЖДЁТ</h2><a class="text-link" href="#participation">Занять место <span aria-hidden="true">↓</span></a></div><ul class="program-list"><li data-motion="reveal" data-delay="0"><h3>Формула личного бренда:</h3><p>из каких ключевых элементов складывается <strong>узнаваемость</strong>.</p></li><li data-motion="reveal" data-delay="70"><h3>Как соединить личный бренд и маркетинг доверия:</h3><p>почему в 2026 году покупают у людей и как внедрить элементы <strong>честности и прозрачности</strong>.</p></li><li data-motion="reveal" data-delay="0"><h3>Позиционирование и якоря:</h3><p>как чётко заявить о себе, <strong>выделиться среди конкурентов</strong> и закрепить свой уникальный образ (включая личные фишки и стиль).</p></li><li data-motion="reveal" data-delay="70"><h3>Легенда личного бренда:</h3><p>как красиво и цепляюще упаковать <strong>историю своего профессионального пути</strong>.</p></li><li data-motion="reveal" data-delay="0"><h3>Контент без выгорания:</h3><p>разбираем ловушки перфекционизма, настраиваем тайм-менеджмент, батчинг и <strong>системную регулярность</strong> «лучше меньше, но постоянно».</p></li><li data-motion="reveal" data-delay="70"><h3>Разбор главных ошибок:</h3><p>почему копирование других и отсутствие смыслов губит блог, и <strong>как этого избежать</strong>.</p></li></ul></section></div>
 <div class="page-band page-band--black"><section class="mid-booking" id="participation" aria-labelledby="offer-title"><div class="offer-summary" data-motion="reveal"><p class="kicker">ПРАКТИЧЕСКИЙ ВЕБИНАР</p><h2 id="offer-title">Как развить и усовершенствовать ваш личный бренд</h2><dl class="offer-details"><div><dt>Дата</dt><dd>21 сентября 2026</dd></div><div><dt>Время</dt><dd>15:00 мск</dd></div><div><dt>Формат</dt><dd>Онлайн</dd></div></dl></div><div class="offer-purchase" data-motion="reveal"><div class="offer-cost"><p class="kicker">СТОИМОСТЬ</p><p class="mid-price" data-motion="number">888 ₽</p></div><div class="payment-action"><a class="pay" href="https://payform.ru/qvcwvzr/" target="_blank" rel="noopener noreferrer"><span>Занять место</span><span class="arrow" aria-hidden="true">→</span></a><p class="offer-note"><a href="/legal/oferta/">Условия публичной оферты</a></p></div><p class="payment-note">Оплата через Продамус</p></div></section></div>
 <div class="page-band page-band--blue"><section class="w-formula" aria-label="Формула личного бренда"><div class="formula-track"><p><span>Смыслы <b>×</b></span> <span>Позиционирование <b>×</b></span> <span>Якоря <b>×</b></span> <span>Дисциплина <b>×</b></span> <span>Легенда</span></p><p aria-hidden="true"><span>Смыслы <b>×</b></span> <span>Позиционирование <b>×</b></span> <span>Якоря <b>×</b></span> <span>Дисциплина <b>×</b></span> <span>Легенда</span></p></div><button class="motion-pause" type="button" aria-label="Приостановить бегущую строку" aria-pressed="false">Пауза</button></section></div>
-<div class="page-band page-band--cream"><section class="w-author" aria-labelledby="author-title"><div class="author-heading" data-motion="reveal"><p class="kicker">АВТОР ВЕБИНАРА</p><h2 id="author-title">ВАЛЕНТИНА<br> СУХАРЕВА</h2></div><img class="author-photo" data-motion="reveal" src="/assets/img/portrait-bench-1200.webp" srcset="/assets/img/portrait-bench-600.webp 600w, /assets/img/portrait-bench-1200.webp 1200w" sizes="(max-width:760px) 90vw, 40vw" width="1200" height="1801" loading="lazy" alt="Валентина Сухарева в бордовом жилете за уличным столиком"><div class="author-bio" data-motion="reveal"><p class="author-brand">«Рыжий маркетолог»</p><p>Наставник по продвижению и личному бренду, организатор онлайн-нетворкингов.</p><div class="author-experience"><p>15+</p><span>лет в маркетинге</span></div><p class="author-path">Управление рестораном → развитие и продвижение проектов в соцсетях → сейчас системный маркетинг, комьюнити, курсы, вебинары и продвижение экспертов.</p></div></section></div>
+<div class="page-band page-band--cream"><section class="w-author" aria-labelledby="author-title"><div class="author-heading" data-motion="reveal"><p class="kicker">АВТОР ВЕБИНАРА</p><h2 id="author-title">ВАЛЕНТИНА<br> СУХАРЕВА</h2></div><img class="author-photo" data-motion="reveal" src="/assets/img/portrait-bench-1200.webp" srcset="/assets/img/portrait-bench-600.webp 600w, /assets/img/portrait-bench-1200.webp 1200w, /assets/img/portrait-bench-2400.webp 2400w" sizes="(max-width:760px) 90vw, (max-width:1500px) 41vw, 535px" width="1200" height="1801" loading="lazy" alt="Валентина Сухарева в бордовом жилете за уличным столиком"><div class="author-bio" data-motion="reveal"><p class="author-brand">«Рыжий маркетолог»</p><p>Наставник по продвижению и личному бренду, организатор онлайн-нетворкингов.</p><div class="author-experience"><p>15+</p><span>лет в маркетинге</span></div><p class="author-path">Управление рестораном → развитие и продвижение проектов в соцсетях → сейчас системный маркетинг, комьюнити, курсы, вебинары и продвижение экспертов.</p></div></section></div>
 <div class="page-band page-band--orange"><section class="w-final" id="registration" aria-labelledby="final-title"><div class="final-copy" data-motion="reveal"><h2 id="final-title">ХВАТИТ<br> ОТКЛАДЫВАТЬ<br> СЕБЯ НА ПОТОМ!</h2><p>Этот эфир станет вашим мощным толчком к изменениям по правилу 72 часов. Занимайте своё место, будет очень полезно!</p></div><div class="final-ticket" data-motion="reveal"><p class="kicker">ПРАКТИЧЕСКИЙ ВЕБИНАР</p><p class="ticket-date">21 сентября 2026</p><p>15:00 мск / Онлайн</p><p class="ticket-price" data-motion="number">888 ₽</p><div class="payment-action"><a class="pay" href="https://payform.ru/qvcwvzr/" target="_blank" rel="noopener noreferrer"><span>Занять место</span><span class="arrow" aria-hidden="true">→</span></a><p class="offer-note"><a href="/legal/oferta/">Условия публичной оферты</a></p></div><p class="payment-note">Оплата через Продамус</p></div></section></div>
 </main>
 <div class="page-band page-band--black"><footer><div class="footer-top"><div class="footer-identity"><a class="brand" href="/">Рыжий маркетолог</a><p class="footer-tagline">МАРКЕТИНГ. ЛЮДИ. РАЗВИТИЕ.</p><nav class="footer-social" aria-label="Социальные сети"><a href="https://t.me/valentina_pro_marketing" target="_blank" rel="noopener noreferrer">Telegram</a><a href="https://max.ru/id421204839449_biz" target="_blank" rel="noopener noreferrer">MAX</a><a href="https://www.instagram.com/valentina_promarketing" target="_blank" rel="noopener noreferrer">Instagram</a></nav></div><nav class="footer-menu" aria-label="Разделы сайта Рыжий маркетолог в подвале"><a href="/#about">Обо мне</a><a href="/#formats">Форматы</a><a href="/#calendar">Календарь</a><a href="/#thoughts">Блог</a></nav></div><div class="footer-legal"><p>ИП Сухарева Валентина Александровна · ИНН 421204839449 · ОГРНИП 325420500045757</p><nav aria-label="Юридические документы"><a href="/legal/oferta/">Оферта</a><a href="/legal/privacy/">Политика</a><a href="/rekvizity/">Реквизиты</a></nav></div><p class="footer-credit">Концепт и реализация — <a href="https://xn--80abbgkqqiqk5bzb.xn--p1ai" target="_blank" rel="noopener noreferrer">БигТехно<span class="credit-club">Клаб</span>.рф</a></p></footer></div>
